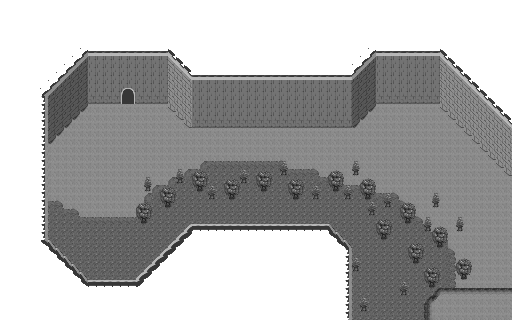
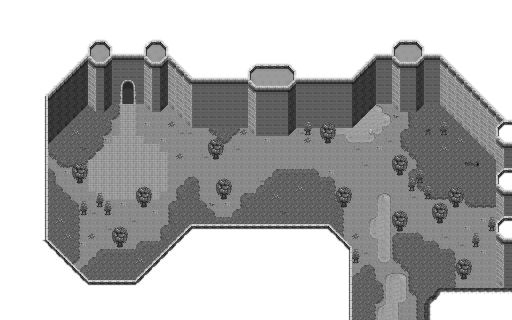
castle

diff --git a/src/data/missions.js b/src/data/missions.js
@@ -4,7 +4,7 @@ export default [
     chapter: 0,
     title: '王殺しのジャック',
     en: 'Jack the Kingkiller',
-    map: { key: 'forest1', x: 46, y: 24 }
+    map: { key: 'castle1', x: 34, y: 21 }
   },
   {
     key: 'm1_1',
@@ -137,6 +137,6 @@ export default [
     chapter: 5,
     title: '平和王エドガー',
     en: 'Edgar the Peaceful',
-    map: { key: 'forest1', x: 16, y: 14 }
+    map: { key: 'castle1', x: 34, y: 21 }
   }
 ]
